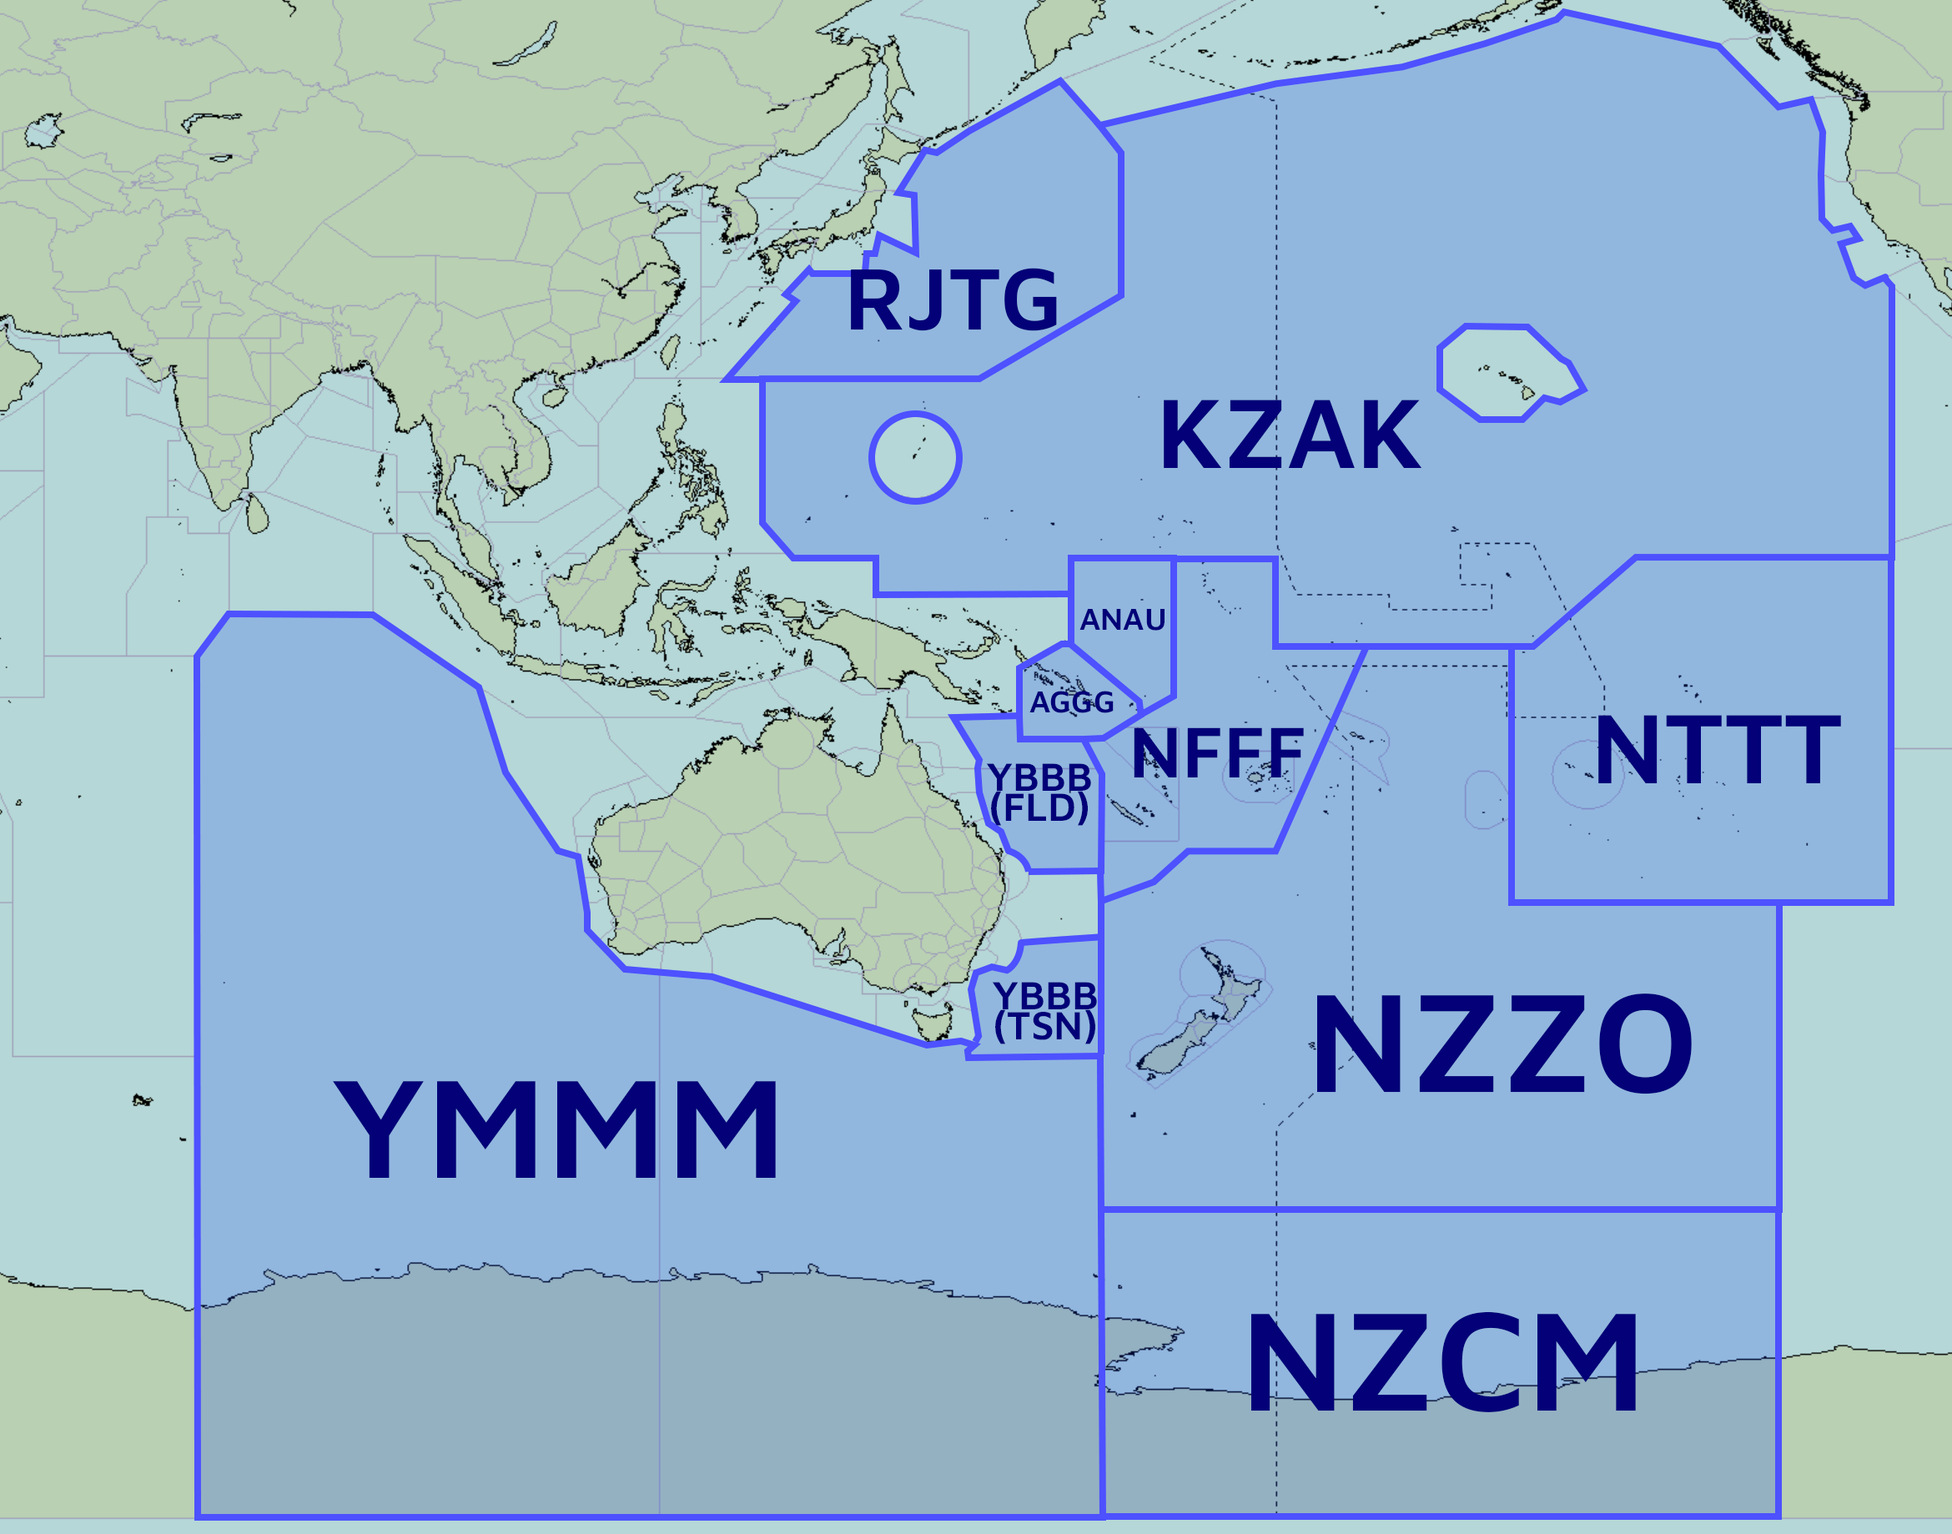
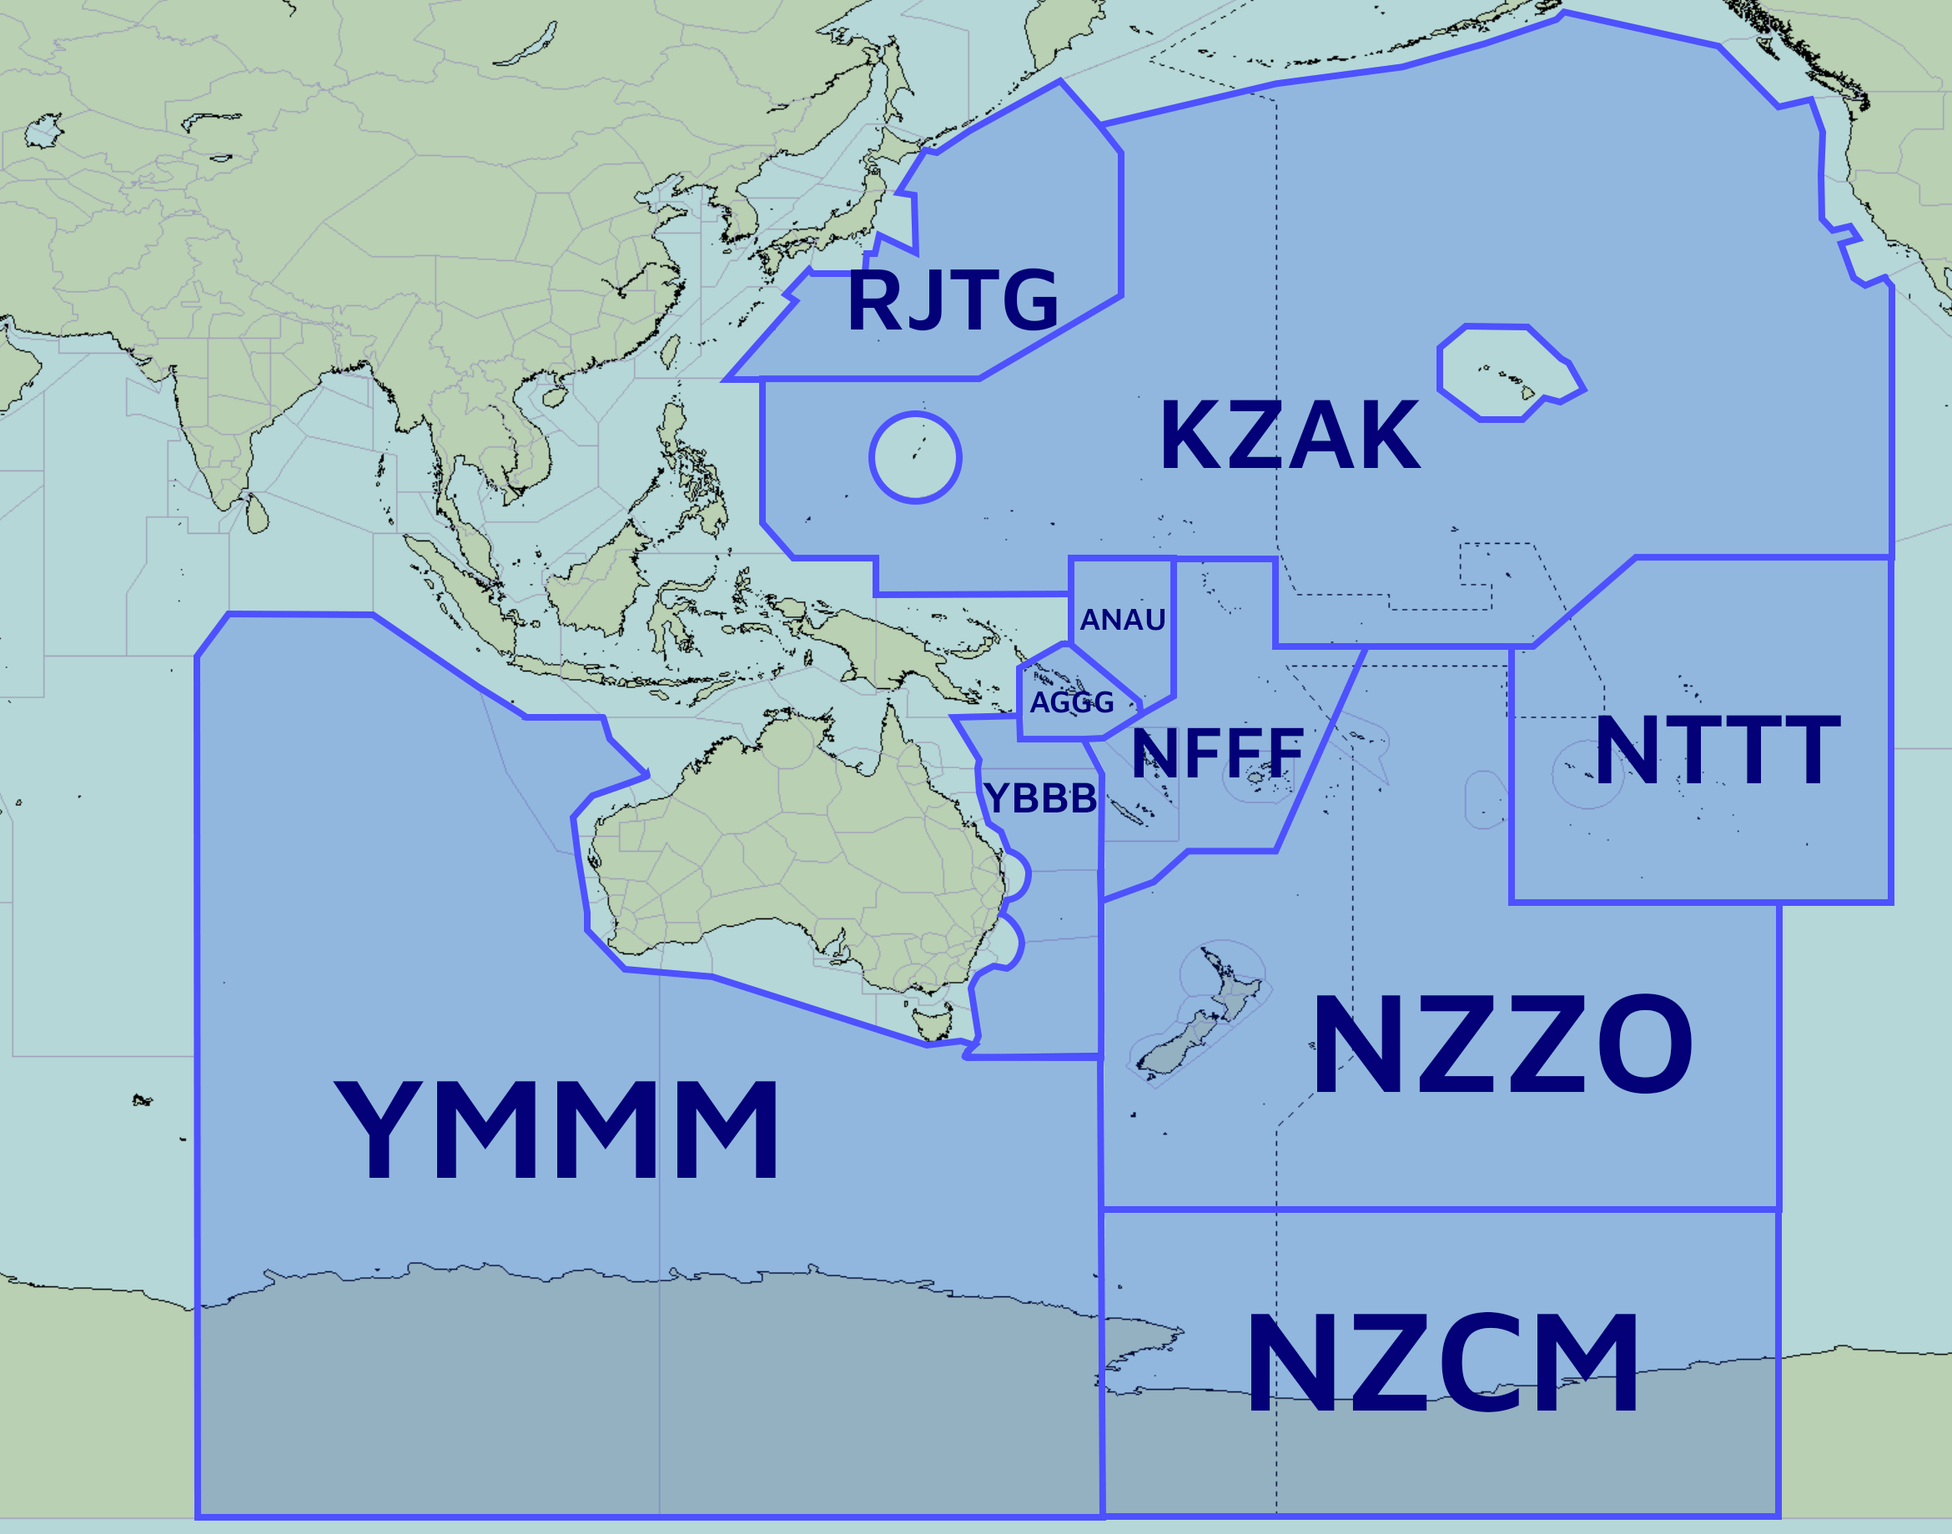
TSN changes

Changed region(s): [[0.4991, 0.4959, 0.5615, 0.6819], [0.2496, 0.4339, 0.3432, 0.5579]]

diff --git a/docs/oceanic/index.md b/docs/oceanic/index.md
@@ -32,40 +32,25 @@ RJTG - Fukuoka Oceanic
 
 ### Control Positions
 
-| Name  | 	Callsign  | 	Frequency   |	Logon Identifier |
+| Sector  | 	Callsign  | 	Frequency   |	Logon Identifier |
 | ----------------- | --------------- | ----------------- | ----------- | 
 | KZAK - Oakland Oceanic |  San Francisco Radio | 11.282 (129.400)  |  ZAK_FSS |
 | YBBB - Brisbane Oceanic (Tasman)  | Brisbane Radio | 17.904 (124.650)  |  BN-TSN_FSS |
-| YBBB - Brisbane Oceanic (Flinders)  | Brisbane Radio | 17.904 (132.850)  |  BN-FLD_FSS |
-| YMMM - Melbourne Oceanic (Indian Ocean) |  Brisbane Radio | 5.634 (129.250)  |  ML-IND_FSS |
+| YMMM - Melbourne Oceanic (Indian) |  Brisbane Radio | 5.634 (129.250)  |  ML-IND_FSS |
 | NZZO - Auckland Oceanic  |  Auckland Radio |  8.867 (129.000) |  NZZO_FSS |
 | NZCM - McMurdo Oceanic  |  McMurdo Radio |  9.032 (128.700) |  NZCM_FSS |
 | NFFF - Nadi Oceanic  | Nadi Radio  |  8.846 (123.600) |  NFFF_FSS |
 | NTTT - Tahiti Oceanic  |  Tahiti Radio | 9.116 (125.500) |  NTTT_FSS |
 | RJTG -  Fukuoka Oceanic |  Toyko | 2.932 (126.700) |  RJTG_FSS |
 
+[Indian (IND)](Positions/IND) and [Tasman (TSN)](Positions/TSN) have their own detailed Local Instructions. Refer to the links for more information.
 
 !!! Note 
     KZAK oceanic positions may be further subdivided by the shift supervisor, in which case the subsector shall add a numeral to the callsign. For example, ZAK_1_FSS. It is discouraged to only control a portion of KZAK in non-event periods. For more information on KZAK procedures, head to their SOPs [here.](https://oakartcc.org/web/viewer.html?file=/controllers/file/e8a98e09-1c16-11ec-9430-2a32edb55910){target=new}
-
-!!! note
-    The AGGG and ANAU FIRs do not have their own distinct positions or frequencies, they are part of the COL subsector in the FLD group.
-
-#### Non-Standard Positions
-
-| Name | Callsign | Frequency | Login ID |
-| ---- | -------- | --------- | -------- |
-| Coral† | Brisbane Radio | 133.150 | BN-COL_FSS |
-| Indian East† | Brisbane Radio | 123.650 | ML-INE_FSS |
-| Indian South† | Brisbane Radio | 123.200 | ML-INS_FSS |
-
-† *Non-standard positions* may only be used in accordance with [VATPAC Air Traffic Services Policy](https://vatpac.org/publications/policies){target=new}
-
-COL can be split off from FLD. INE and INS can be split off from IND.
     
 ## Recency Requirements
 
-- A Participating Organisation must require a permitted controller to log 1 hour on a permitted oceanic position, within the previous 3 months, for them to be considered active, and
-- A permitted controller who does not meet the hour requirement specified above, will be considered inactive; and
-- An inactive permitted controller may become active again, by performing a buddy session with a permitted controller who is approved to do so by that PO; and
-- Any additional currency or activity requirements imposed by a PO on local or visiting controllers do not apply to permitted controllers.
+- A Participating Organisation must require a permitted controller to log **1 hour** on a permitted oceanic position, within the previous **3 months**, for them to be considered **active**, and
+- A permitted controller who **does not** meet the hour requirement specified above, will be considered **inactive**; and
+- An **inactive** permitted controller may become active again, by performing a *buddy session* with a permitted controller who is approved to do so by that PO; and
+- Any additional currency or activity requirements imposed by a PO on local or visiting controllers **do not apply** to permitted controllers.

diff --git a/docs/oceanic/Positions/TSN.md b/docs/oceanic/Positions/TSN.md
@@ -1,0 +1,66 @@
+---
+  title: Tasman (TSN)
+---
+
+--8<-- "includes/abbreviations.md"
+## Positions
+
+| Name | Callsign | Frequency | Login ID |
+| ---- | -------- | --------- | -------- |
+| **Tasman** | **Brisbane Radio** | **124.650 (17.904)** | **BN-TSN_FSS** |
+| Coral† | Brisbane Radio | 133.150 (6.556) | BN-COL_FSS |
+| Flinders† | Brisbane Radio | 133.150 (13.318) | BN-FLD_FSS |
+| *Howe†^* | *Brisbane Centre* | *124.950* | *BN-HWE_CTR* |
+
+† *Non-standard positions* may only be used in accordance with [VATPAC Air Traffic Services Policy](https://vatpac.org/publications/policies){target=new}
+
+^ Refer to [Howe](#howe-hwe)
+
+### CPDLC
+The Primary Communication Method for TSN is [CPDLC](../../../client/cpdlc).
+
+The CPDLC Station Code is `YTSN`.
+
+Voice may be used in lieu when applicable.
+
+## Airspace
+
+<figure markdown>
+![Tasman Airspace](../assets/tsn.png){width="500" }
+  <figcaption>Tasman Airspace</figcaption>
+</figure>
+
+### Howe (HWE)
+HWE is a non-standard subsector that sits within TSN. Unlike TSN, it operates as a **VHF Surveillance** sector when it is open.
+
+Due to limitations in VHF/HF coupling, HWE **cannot** extend to adjacent HF units.
+
+#### Surveillance Coverage
+Limited surveillance coverage exists for aircraft in CTA greater than **250nm** from LHI. [Procedural Standards](../../../separation-standards/procedural/) must be implemented **prior** to losing surveillance coverage
+
+### Coral (COL)
+The COL subsector includes the AGGG and ANAU FIRs. These FIRs **do not** have their own positions, and **cannot** be split off from COL.
+
+## Extending
+!!! Warning
+    TSN (and its subsectors) are **not permitted** to extend to any adjacent Domestic/International sectors
+
+## STAR Clearance Expectation
+### Handoff
+Aircraft being transferred to the following sectors shall be told to Expect STAR Clearance on handoff:
+
+| Transferring Sector | Receiving Sector | ADES | Notes |
+| ---- | -------- | --------- | --------- |
+| TSN, HWE | ARL(OCN) | YSSY | |
+| FLD, HWE | INL(SDY) | YBBN, YBCG, YBSU | |
+| FLD | KEN(All) | YBCS, YBTL | |
+
+## Coordination
+### Enroute
+As per [Standard coordination procedures](../../../controller-skills/coordination/#enr-enr), Voiceless, no changes to route or CFL within **50nm** to boundary.
+
+### TSN Internal
+As per [Standard coordination procedures](../../../controller-skills/coordination/#pacific-units), Voiceless, no changes to route or CFL within **15 mins** to boundary.
+
+### Pacific Oceanic + AYPM
+As per [Standard coordination procedures](../../../controller-skills/coordination/#pacific-units), Voiceless, no changes to route or CFL within **15 mins** to boundary.

diff --git a/docs/oceanic/Positions/IND.md b/docs/oceanic/Positions/IND.md
@@ -1,0 +1,62 @@
+---
+  title: Indian (IND)
+---
+
+--8<-- "includes/abbreviations.md"
+## Positions
+
+| Name | Callsign | Frequency | Login ID |
+| ---- | -------- | --------- | -------- |
+| **Indian** | **Brisbane Radio** | **129.250 (5.634)** | **ML-IND_FSS** |
+| Indian East† | Brisbane Radio | 123.650 (17.961) | ML-INE_FSS |
+| Indian South† | Brisbane Radio | 123.200 (3.476) | ML-INS_FSS |
+
+† *Non-standard positions* may only be used in accordance with [VATPAC Air Traffic Services Policy](https://vatpac.org/publications/policies){target=new}
+
+### CPDLC
+The Primary Communication Method for IND is [CPDLC](../../../client/cpdlc).
+
+The CPDLC Station Code is `YIND`.
+
+Voice may be used in lieu when applicable.
+
+## Airspace
+
+<figure markdown>
+![Indian Airspace (Zoomed)](../assets/indzoomin.png){width="700" }
+  <figcaption>Indian Airspace (Zoomed)</figcaption>
+</figure>
+
+<figure markdown>
+![Indian Airspace](../assets/indzoomout.png){width="700" }
+  <figcaption>Indian Airspace</figcaption>
+</figure>
+
+## Extending
+!!! Warning
+    IND (and its subsectors) are **not permitted** to extend to any adjacent Domestic/International sectors
+
+## STAR Clearance Expectation
+### Handoff
+Aircraft being transferred to the following sectors shall be told to Expect STAR Clearance on handoff:
+
+| Transferring Sector | Receiving Sector | ADES | Notes |
+| ---- | -------- | --------- | --------- |
+| IND | PIY(All) | YPPH | |
+
+## Coordination
+### Domestic Enroute
+As per [Standard coordination procedures](../../../controller-skills/coordination/#enr-enr), Voiceless, no changes to route or CFL within **50nm** to boundary.
+
+### IND Internal
+As per [Standard coordination procedures](../../../controller-skills/coordination/#pacific-units), Voiceless, no changes to route or CFL within **15 mins** to boundary.
+
+### TSN/NZZO/NZCM (Pacific Oceanic)
+As per [Standard coordination procedures](../../../controller-skills/coordination/#pacific-units), Voiceless, no changes to route or CFL within **15 mins** to boundary.
+
+### International Non-Pacific
+As per [Standard coordination procedures](../../../controller-skills/coordination/#other-units), Heads-up Coordination required for all aircraft prior to **30 mins** from boundary.
+
+!!! example
+    <span class="coldline">**IND** -> **FAJO FSS**</span>: "Estimate, SAA281, XEKOT time 44, F360"  
+    <span class="coldline">**FAJO FSS** -> **IND**</span>: "SAA281, F360"

diff --git a/docs/oceanic/procedures.md b/docs/oceanic/procedures.md
@@ -4,6 +4,11 @@
 
 --8<-- "includes/abbreviations.md"
 
+## Separation
+Pacific Oceanic Units operate almost exclusively as **Non-Surveillance Procedural** Sectors.
+
+Refer to [Procedural Separation Standards](../../separation-standards/procedural/) for more information.
+
 ## Transition Altitudes
 
 | Name  | 	Transition Altitude  | 	Transition Level   |
@@ -88,17 +93,13 @@ Aircraft using time compression must be assigned the following levels for separa
 !!! important
     Aircraft at normal speed **always** have priority over aircraft using Time Compression.
 
-## STAR Clearance Expectation
-
-### Handoff
-Aircraft being transferred to the following sectors shall be told to Expect STAR Clearance on handoff:
-
-| Transferring Sector | Receiving Sector | ADES | Notes |
-| ---- | -------- | --------- | --------- |
-| IND | PIY(LEA) | YPPH | |
-| TSN | ARL(OCN) | YSSY | |
-| FLD | INL(SDY) | YBBN, YBCG, YBSU | |
-| TSN | HUO | YMHB | |
-
 ## Coordination
-As per [Standard coordination procedures](../../../controller-skills/coordination/#pacific-units), Voiceless, no changes to route or CFL within **15 mins** to boundary.
+### Between Pacific Oceanic Units
+As per [Standard coordination procedures](../../controller-skills/coordination/#pacific-units), Voiceless, no changes to route or CFL within **15 mins** to boundary.
+
+### To Other Units
+As per [Standard coordination procedures](../../controller-skills/coordination/#other-units), Heads-up Coordination required for all aircraft prior to **30 mins** from boundary.
+
+!!! example
+    <span class="coldline">**IND** -> **FAJO FSS**</span>: "Estimate, SAA281, XEKOT time 44, F360"  
+    <span class="coldline">**FAJO FSS** -> **IND**</span>: "SAA281, F360"

diff --git a/docs/enroute/Brisbane Centre/KEN.md b/docs/enroute/Brisbane Centre/KEN.md
@@ -59,8 +59,8 @@ Whilst the **MKA** controller is expected to provide a [top-down service](../../
 ## Sector Responsibilities
 All subsectors are responsible for issuing STAR Clearances for YBMK, YBTL and YBCS on first contact.
 
-### Cairns STAR Clearance
-Cairns has specific visual approach procedures for use when VMC exists below `A030` in the terminal area. As such, **light & medium category aircraft (B737/A320 and below)**, tracking via the following waypoints, shall be issued the relevant Victor STAR.
+### YBCS STAR Clearances
+YBCS has specific visual approach procedures for use when VMC exists below `A030` in the terminal area. As such, **light & medium category aircraft (B737/A320 and below)**, tracking via the following waypoints, shall be issued the relevant Victor STAR.
 
 Heavy aircraft, and any aircraft not meeting the criteria below, must be issued the Instrument STAR.
 
@@ -120,6 +120,7 @@ Aircraft being transferred from the following sectors shall be given STAR Cleara
 | KEN | TBP | YBMK | |
 | SWY | TBP | YBCS | |
 | BAR | KEN | YBTL | |
+| TSN(All) | KEN(All) | YBCS, YBTL | |
 
 See [Cairns STAR Clearance](#cairns-star-clearance) for instructions on issuing STAR clearances.
 
@@ -234,5 +235,5 @@ YBHM arrivals shall be heads-up coordinated to **JM ADC** from SWY prior to **5 
 
 The Standard Assignable level from KEN(SWY) to HM ADC is `A060`, any other level must be prior coordinated.
 
-### FLD (Oceanic)
+### TSN(FLD) (Oceanic)
 As per [Standard coordination procedures](../../../controller-skills/coordination/#pacific-units), Voiceless, no changes to route or CFL within **15 mins** to boundary.

diff --git a/docs/enroute/Brisbane Centre/ISA.md b/docs/enroute/Brisbane Centre/ISA.md
@@ -79,21 +79,14 @@ SG ADC owns the Class C airspace within the SG CTR from `SFC` to `A015`.
 ### ISA Internal
 As per [Standard coordination procedures](../../../controller-skills/coordination/#enr-enr), Voiceless, no changes to route or CFL within **50nm** to boundary.
 
-### FLD(COL) (Oceanic)
+### TSN(COL) (Oceanic)
 As per [Standard coordination procedures](../../../controller-skills/coordination/#pacific-units), Voiceless, no changes to route or CFL within **15 mins** to boundary.
 
 ### International (AYPM)
 As per [Standard coordination procedures](../../../controller-skills/coordination/#pacific-units), Voiceless, no changes to route or CFL within **15 mins** to boundary.
 
 ### International (WAAF)
-Coordination to International units must be done prior to **30 mins** from the boundary in the following format:
-
-- *"Estimate"*
-- Callsign
-- Boundary Point
-- Estimate
-- Level
-- *"On climb"*/*"On descent*" (if applicable)
+As per [Standard coordination procedures](../../../controller-skills/coordination/#other-units), Heads-up Coordination required for all aircraft prior to **30 mins** from boundary.
 
 !!! example
     <span class="coldline">**ARA** -> **WAAF CTR**</span>: "Estimate, CEB40, TOREX time 59, F360"  

diff --git a/docs/enroute/Brisbane Centre/INL.md b/docs/enroute/Brisbane Centre/INL.md
@@ -104,7 +104,7 @@ Aircraft being transferred from the following sectors shall be given STAR Cleara
 | ARL/MNN/MDE | INL, DOS | YBBN, YBCG | |
 | KEN(SWY), ISA(CVN) | KPL | YBBN, YBCG | Jets only |
 | ISA(CVN) | DOS | YBBN, YBCG | |
-| HWE, FLD | SDY | YBBN, YBCG, YBSU | |
+| TSN(All) | SDY | YBBN, YBCG, YBSU | |
 | KPL | BUR | YBBN, YBCG | Non-jets only |
 | INL | GOL | YBSU | |
 | NSA | KPL | YBRK, YBMK | |
@@ -284,5 +284,5 @@ All aircraft transiting from INL(All) to **OK TCU** and **AMB TCU** must be head
     <span class="hotline">**AMB TCU** -> **GOL**</span>: "STAL13, `A090`"  
     <span class="hotline">**GOL** -> **AMB TCU**</span>: "`A090`, STAL13"   
 
-### FLD (Oceanic)
+### TSN(HWE/FLD) (Oceanic)
 As per [Standard coordination procedures](../../../controller-skills/coordination/#pacific-units), Voiceless, no changes to route or CFL within **15 mins** to boundary.

diff --git a/docs/enroute/Brisbane Centre/TRT.md b/docs/enroute/Brisbane Centre/TRT.md
@@ -138,14 +138,7 @@ Reserved.
 As per [Standard coordination procedures](../../../controller-skills/coordination/#pacific-units), Voiceless, no changes to route or CFL within **15 mins** to boundary.
 
 ### International (WAAF)
-Coordination to International units must be done prior to **30 mins** from the boundary in the following format:
-
-- *"Estimate"*
-- Callsign
-- Boundary Point
-- Estimate
-- Level
-- *"On climb"*/*"On descent*" (if applicable)
+As per [Standard coordination procedures](../../../controller-skills/coordination/#other-units), Heads-up Coordination required for all aircraft prior to **30 mins** from boundary.
 
 !!! example
     <span class="coldline">**TRT** -> **WAAF CTR**</span>: "Estimate, SIA236, KIKEM time 21, F320"  

diff --git a/docs/enroute/Brisbane Centre/ARL.md b/docs/enroute/Brisbane Centre/ARL.md
@@ -249,5 +249,5 @@ All other aircraft coming from ARL CTA must be **Heads-up** Coordinated to WLM T
     <span class="hotline">**CNK** -> **WLM TCU**</span>: "QFA1968, request DCT UPTEB"  
     <span class="hotline">**WLM TCU** -> **CNK**</span>: "QFA1968, concur DCT UPTEB"  
 
-### TSN (Oceanic)
+### TSN/HWE (Oceanic)
 As per [Standard coordination procedures](../../../controller-skills/coordination/#pacific-units), Voiceless, no changes to route or CFL within **15 mins** to boundary.

diff --git a/docs/enroute/Melbourne Centre/PIY.md b/docs/enroute/Melbourne Centre/PIY.md
@@ -114,6 +114,7 @@ Aircraft being transferred from the following sectors shall be given STAR Cleara
 | GVE, CRS, HYD | PIY | YPPH, YPEA | Non-jets only |
 | GVE, CRS, HYD | PIY | YPJT | |
 | GEL, IND | LEA | YPPH | |
+| IND | GEL, LEA, JAR | YPPH | |
 
 ## Coordination
 ### PH TCU
